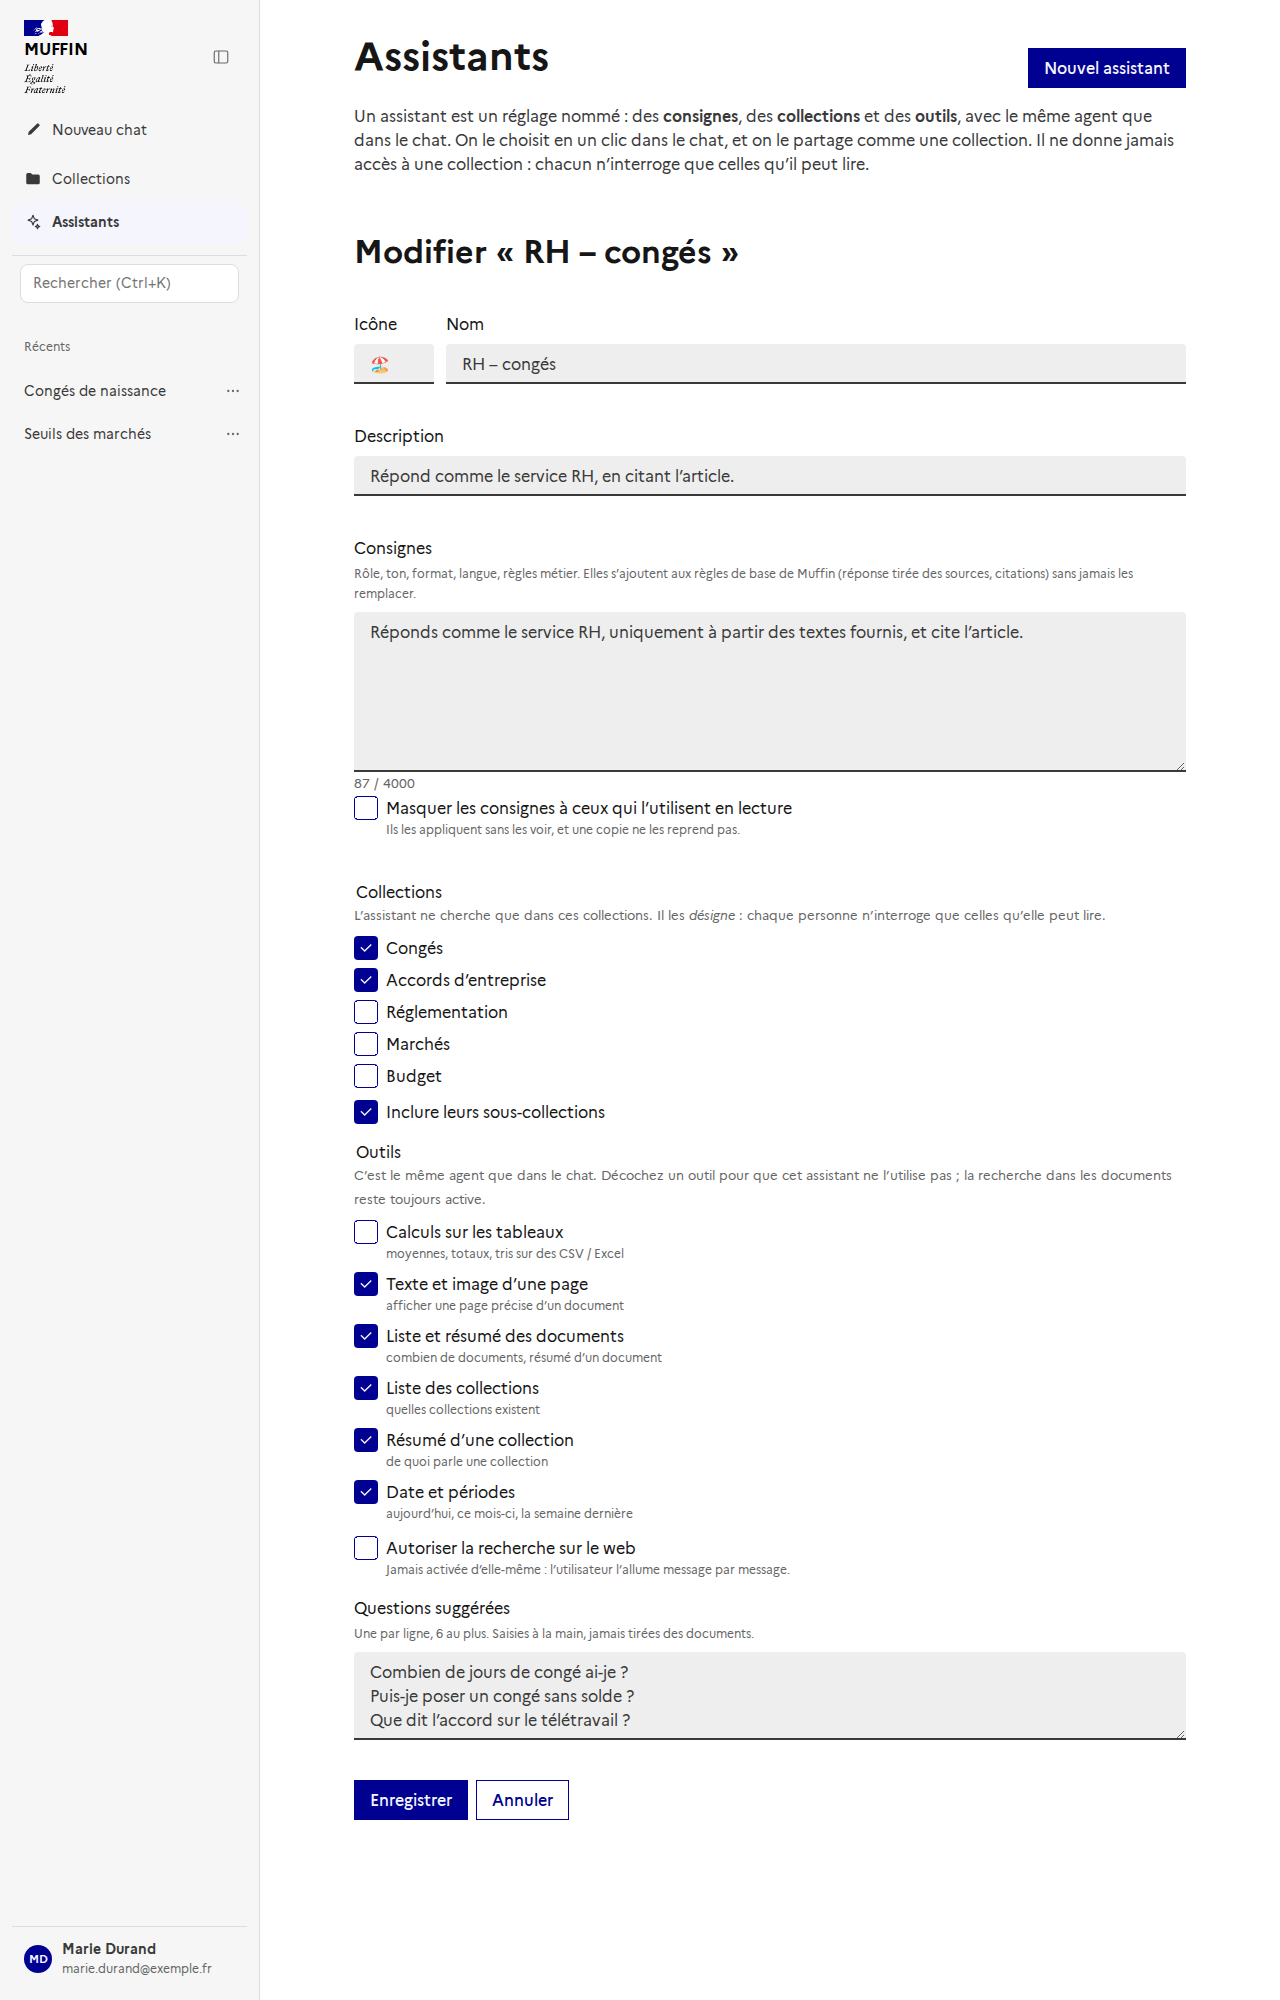
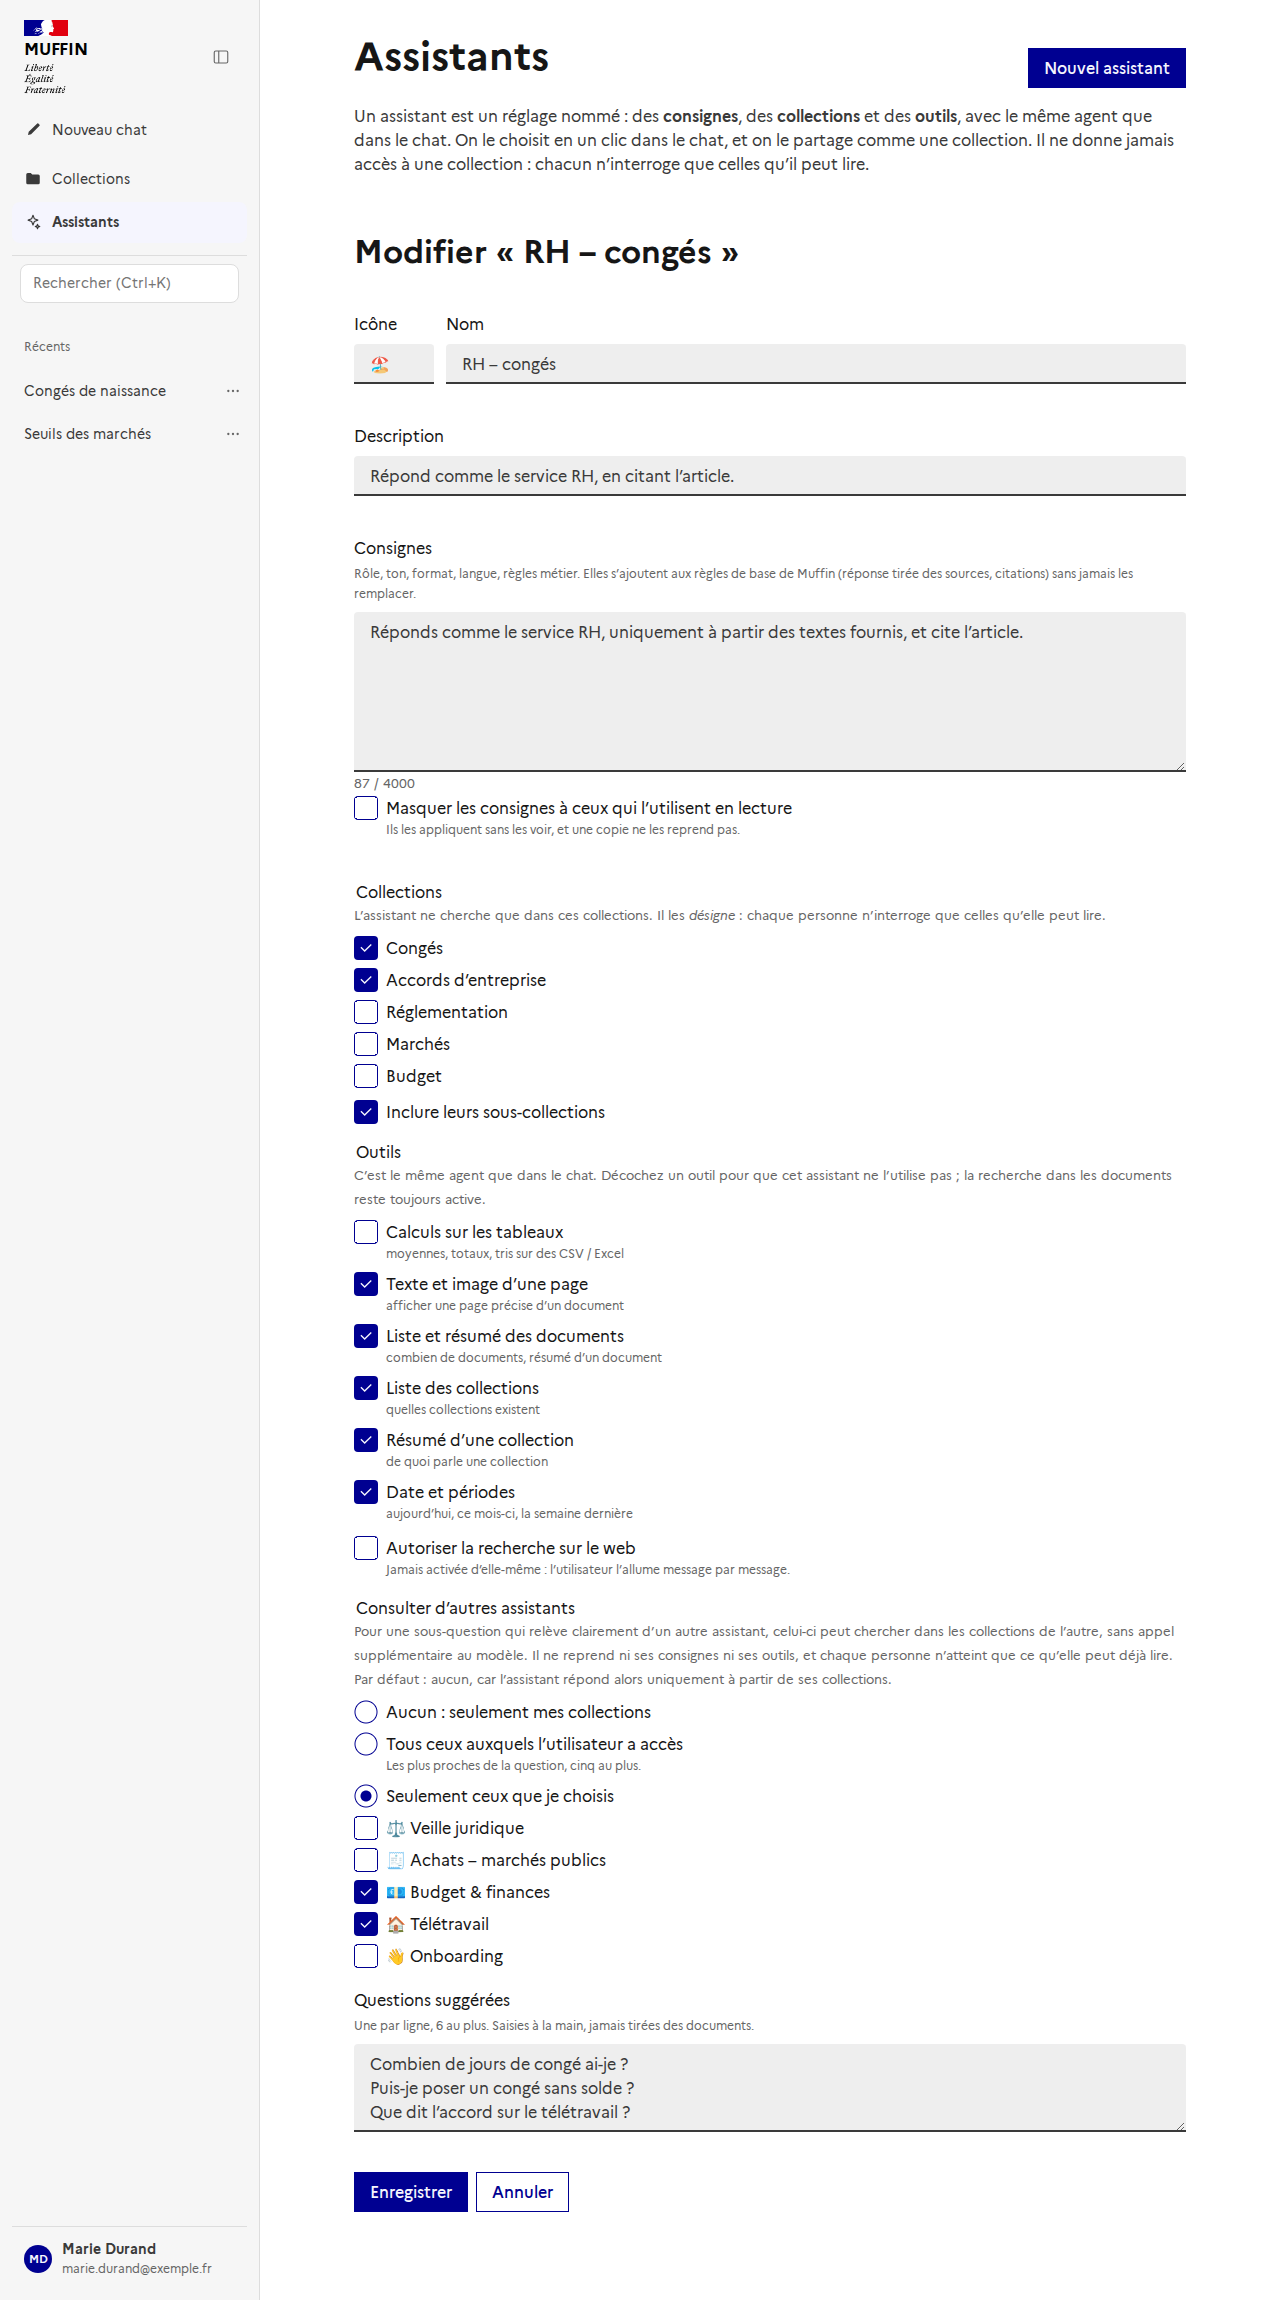
docs: recherche des assistants, cache d'embedding et consultation (#531)

Changed region(s): [[0.25, 0.0, 0.9375, 0.961], [0.0, 0.0, 0.125, 0.217], [0.0, 0.961, 0.1562, 0.992]]

diff --git a/docs/assistants.md b/docs/assistants.md
@@ -93,9 +93,45 @@ journalisés : qui, quand, quoi.
 `assistant_inaccessible_collections`. `AssistantService.resolve(user, assistant_id)` ne dépend d'aucune route : l'API compatible OpenAI
 (`docs/openai-api.md`) et le MCP pourront l'utiliser.
 
+## Retrouver un assistant (#531)
+
+*Rechercher un assistant* (sélecteur du chat, page Assistants) cherche par ce que l'assistant dit faire, **parmi tous ceux que la personne
+peut lire** (les siens, ceux partagés avec elle, les publics) : `GET /api/assistants/search?q=`. `GET /api/assistants/suggest?q=` propose
+ceux dont la description colle à une question, éventuellement aucun ; **une suggestion n'applique jamais un assistant**.
+
+![La recherche dans le sélecteur : « conge » trouve « RH – congés » et « Télétravail », sans accent et sans requête](images/assistants-recherche.png)
+
+La recherche fait le moins d'appels possible (`docs/search.md`) : avec moins de 8 assistants, elle se fait sur les mots, **dans le
+navigateur, sans aucune requête** ; au-delà, une seule requête après une pause de frappe (la précédente est annulée), une recherche
+hybride sur les descriptions, **un seul appel d'embedding pour la question** (gardé quelques minutes), et jamais de modèle de langage. Ce
+qui est cherché : le nom, la description et les questions suggérées - **jamais** les consignes ni les noms des collections, pour qu'on ne
+puisse rien en deviner.
+
+## Consulter d'autres assistants (#531)
+
+Un assistant peut **chercher dans les collections d'autres assistants** pour une sous-question qui relève clairement de l'un d'eux. C'est
+le même graphe de l'agent : le planificateur, dans son appel habituel, ajoute `"assistant": id` à une de ses requêtes, et celle-ci est
+cherchée dans les collections de cet assistant au lieu de celles de l'assistant principal. **Aucun appel de plus au modèle.**
+
+- **Réglage** (formulaire, « Consulter d'autres assistants ») : *aucun* (par défaut : l'assistant répond uniquement à partir de ses
+  collections), *tous ceux auxquels l'utilisateur a accès*, ou *seulement ceux que je choisis*.
+- **Qui est consultable, calculé en code à la création du message** (`AssistantService._consultable`) : parmi les assistants que **la
+  personne qui discute** peut lire, jamais l'assistant lui-même, seulement ceux qui ont des collections, et **seulement par celles de leurs
+  collections que cette personne peut lire**. Le résultat est figé sur le run (`runs.consultable_assistants`) : le modèle ne choisit
+  que là-dedans, et la portée verrouillée de l'assistant (`scope_locked`) s'élargit de ces collections-là et d'aucune autre.
+- **Peu d'appels** : jusqu'à `ASSISTANTS_CONSULT_MAX` (5) candidats, tous sont proposés, sans aucune recherche ; au-delà, les plus proches
+  de la question par la recherche hybride (un embedding, partagé avec le routage des collections).
+- **Ce qui est repris de l'assistant consulté** : ses collections et ses outils coupés pour cette sous-question. **Pas ses consignes** :
+  elles servent à écrire une réponse, et l'assistant principal écrit la seule réponse. Il ne consulte pas à son tour (un seul niveau), et
+  seule une recherche de contenu lui est confiée.
+- Chaque source citée dit l'assistant consulté qui l'a trouvée (`consulted_assistant`).
+- Une liste d'assistants à consulter n'est jamais montrée au-delà de ce que la personne peut lire : les autres sont seulement comptés, et
+  qui enregistre ne les perd pas.
+
 ## Réglages et limites
 
-- `ASSISTANTS_PUBLIC_ENABLED` (défaut `false`) et `ASSISTANTS_PER_USER` (défaut `100`) : voir `docs/environment-variables.md`.
+- `ASSISTANTS_PUBLIC_ENABLED`, `ASSISTANTS_PER_USER`, `ASSISTANTS_SEARCH_INDEX_MIN`, `ASSISTANTS_SEARCH_LIMIT`, `ASSISTANTS_SUGGEST_MIN_SCORE` et
+  `ASSISTANTS_CONSULT_MAX` : voir `docs/environment-variables.md`. Le modèle d'embedding est celui de l'administration.
 - Pas encore : les assistants comme `model` de `GET /v1/models`, un avertissement au moment du partage qui compare les destinataires aux
   droits sur les collections (une invitation n'a pas d'identité tant que la personne ne s'est pas connectée), le choix du modèle de
   langage par assistant, la mémoire propre à un assistant.

diff --git a/docs/environment-variables.md b/docs/environment-variables.md
@@ -105,6 +105,7 @@ Moteur, modèle de données, BM25 et RRF : voir [docs/search.md](search.md). Sau
 | `SEARCH_BM25_AVG_LENGTH` | Longueur moyenne, en termes, d'un texte indexé (un chunk) - Qdrant ne la fournit pas | `200` | **backend** (idem) |
 | `SEARCH_LANGUAGE` | Langue de la racinisation et des mots vides (algorithme Snowball : `french`, `english`...), identique à l'indexation et à la requête. **Changer la langue impose de ré-indexer** | `french` | **backend** (idem) |
 | `SEARCH_LOG_BRANCHES` | Journalise (niveau debug), pour chaque recherche, le rang que chaque branche donnerait seule à chaque résultat (requêtes supplémentaires : pour le débogage) | `false` | **backend** (`vector_store._log_branches`) |
+| `SEARCH_EMBEDDING_CACHE_SECONDS` | Durée (secondes) pendant laquelle l'embedding d'une question est gardé, par modèle (Redis), et partagé entre les recherches faites en même temps : une même question coûte un seul appel au modèle d'embedding. `0` : désactivé | `900` | **backend** (`app/config/qdrant.py` → `search_service.embed_query`) |
 | `OWUI_QDRANT_PREFIX` | Préfixe des collections Qdrant d'Open WebUI (son `QDRANT_COLLECTION_PREFIX`, mode classique) : une collection copiée d'Open WebUI est lue dans `<préfixe>_<id de la knowledge base>` (#453) | `open-webui` | **backend** (`vector_store.external_collection_name`) |
 
 Les workers n'accèdent jamais directement à Qdrant : toute recherche/écriture vectorielle
@@ -181,6 +182,10 @@ désactivée par défaut en amont et doit être explicitement activée côté se
 | `RERANK_TIMEOUT_SECONDS` / `RERANK_PASSAGE_MAX_CHARS` | Délai maximal d'attente du service (au-delà : l'ordre actuel est gardé) et longueur à laquelle un passage est coupé avant l'envoi | `3` / `2000` | **backend** (`app/config/rerank.py`) |
 | `ASSISTANTS_PUBLIC_ENABLED` | Autorise tout utilisateur à rendre un assistant public dans l'organisation (#514, `docs/assistants.md`). Faux : seul un administrateur le peut, et il peut toujours retirer un assistant public | `false` | **backend** (`app/config/assistants.py`) |
 | `ASSISTANTS_PER_USER` | Nombre d'assistants qu'une personne peut créer | `100` | **backend** (`app/config/assistants.py`) |
+| `ASSISTANTS_SEARCH_INDEX_MIN` | Sous ce nombre d'assistants à parcourir, la recherche se fait sur leurs mots, sans appel au modèle d'embedding ni à l'index (#531, `docs/assistants.md`) | `8` | **backend** (`app/config/assistants.py`) — le frontend a la même valeur dans `utils/assistantSearch.ts` |
+| `ASSISTANTS_SEARCH_LIMIT` | Nombre maximal d'assistants qu'une recherche renvoie | `20` | **backend** (`app/config/assistants.py`) |
+| `ASSISTANTS_SUGGEST_MIN_SCORE` | Cosinus minimal entre une question et la description d'un assistant pour le proposer | `0.45` | **backend** (`app/config/assistants.py`) |
+| `ASSISTANTS_CONSULT_MAX` | Nombre maximal d'autres assistants qu'un assistant consulte pour une question ; au-delà, les plus proches de la question sont gardés | `5` | **backend** (`app/config/assistants.py`) |
 | `SECRETS_PROVIDER` | Où sont chiffrés les secrets que Muffin doit relire (#521, `docs/secrets.md`) : `vault` (Transit : la clé reste dans Vault) ou `local` (AES-256-GCM, jeu de clés de la configuration : développement, tests, déploiement sans Vault) | `local` | **backend** (`app/config/secrets.py`, `app/core/secret_store`) |
 | `SECRETS_REQUIRE_VAULT` | `true` pour que l'application **refuse de démarrer** si le fournisseur n'est pas Vault : pour une production, où `local` ne serait qu'une erreur | `false` | **backend** (`app/core/secret_store/__init__.py`, `app/main.py`) |
 | `SECRETS_LOCAL_KEYS` | Jeu de clés du fournisseur local : `id=base64 de 32 octets` séparés par des virgules, la **première** chiffre, les autres ne font que déchiffrer (changer de clé sans perdre un secret). Un secret fort par environnement, **jamais commité** ; `docker-compose.yaml` en fournit un d'essai | `""` (aucun secret ne peut être stocké) | **backend** (`app/config/secrets.py`, `app/core/secret_store/local.py`) |

diff --git a/docs/search.md b/docs/search.md
@@ -173,6 +173,28 @@ noté, la recherche garde l'ordre qu'elle avait, **n'échoue jamais**, et un ave
 - **Pas encore mesuré** : le gain de rappel@5 sur le jeu d'évaluation et la latence p95 pour 40 candidats demandent un service de
   reclassement réel. Tant que ce n'est pas fait, le reclassement reste désactivé partout par défaut ; les chiffres seront consignés ici.
 
+## Descriptions des assistants et cache d'embedding (#531)
+
+Les assistants (`docs/assistants.md`) ont leur propre index Qdrant, `assistants`, un point par assistant, avec les deux vecteurs
+(dense et BM25) et la même recherche hybride que les descriptions de collections (`vector_store.search_assistants`, `_hybrid`).
+
+- **Ce qui est indexé** : le nom, la description et les questions suggérées. **Jamais** les consignes (que l'auteur peut masquer) ni les
+  noms des collections (que tous les lecteurs ne peuvent pas lire).
+- **Le modèle d'embedding est celui de l'administrateur**, le même que pour les descriptions de collections (*Administration → Réglages
+  → Modèle d'embedding*, `app_settings.embedding_model`). Sans choix, le premier modèle d'embedding du hub.
+- **Embarqué quand ça change** : la description est embarquée à la création et à chaque modification du nom, de la description ou des
+  suggestions (`AssistantSearchService.index`). Le point garde le hachage du texte indexé et le modèle : un point à jour n'est jamais
+  ré-embarqué (modifier seulement les consignes, les collections ou le partage n'appelle pas le modèle). Si l'administrateur change de
+  modèle, ou si l'embedding était indisponible à l'écriture, les points périmés sont refaits **à la prochaine recherche**, tous
+  ensemble en un seul appel groupé.
+- **Les droits d'abord** : les candidats sont les assistants que la personne peut lire (`AssistantRepository`), recalculés à chaque
+  requête ; la recherche ne fait que les classer. Un partage retiré ou un assistant dépublié disparaît tout de suite.
+- **Peu d'appels** : sous `ASSISTANTS_SEARCH_INDEX_MIN` assistants, filtre sur les mots, sans embedding ni Qdrant ; embedding ou
+  Qdrant en panne : même repli, sans erreur ; aucun modèle de langage n'est jamais appelé.
+- **Un cache pour l'embedding d'une question** (`search_service.embed_query`) : la même question est cherchée dans les passages, les
+  questions-réponses, les résumés, les descriptions de collections et d'assistants, souvent en même temps. Elle est embarquée **une
+  fois** : les recherches simultanées partagent l'appel, et la suivante la trouve en Redis (`SEARCH_EMBEDDING_CACHE_SECONDS`).
+
 ## Écriture, lecture, suppression
 
 - Écritures par lots, avec `wait=true` : ce qu'on relit juste après est déjà là.
